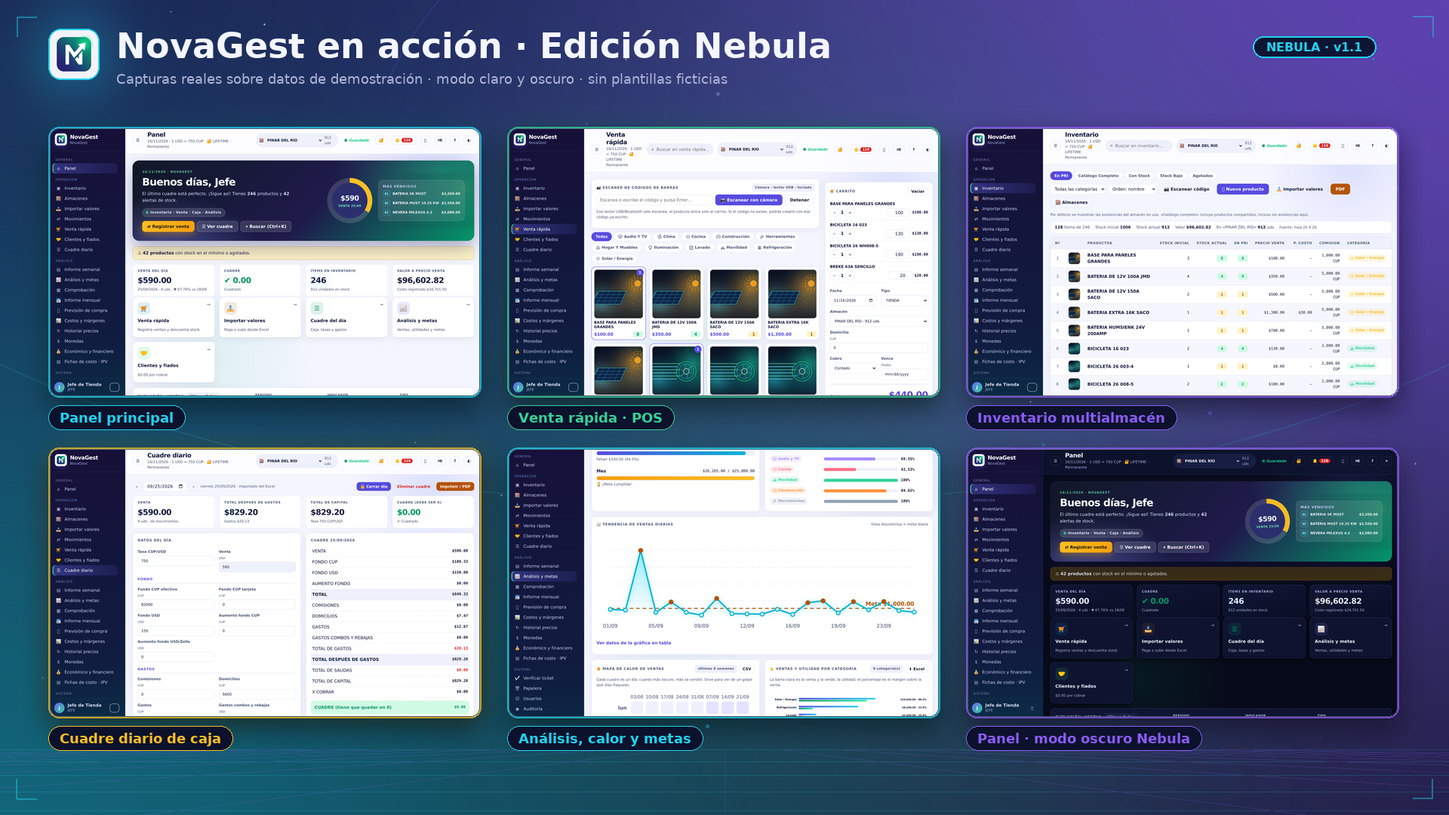
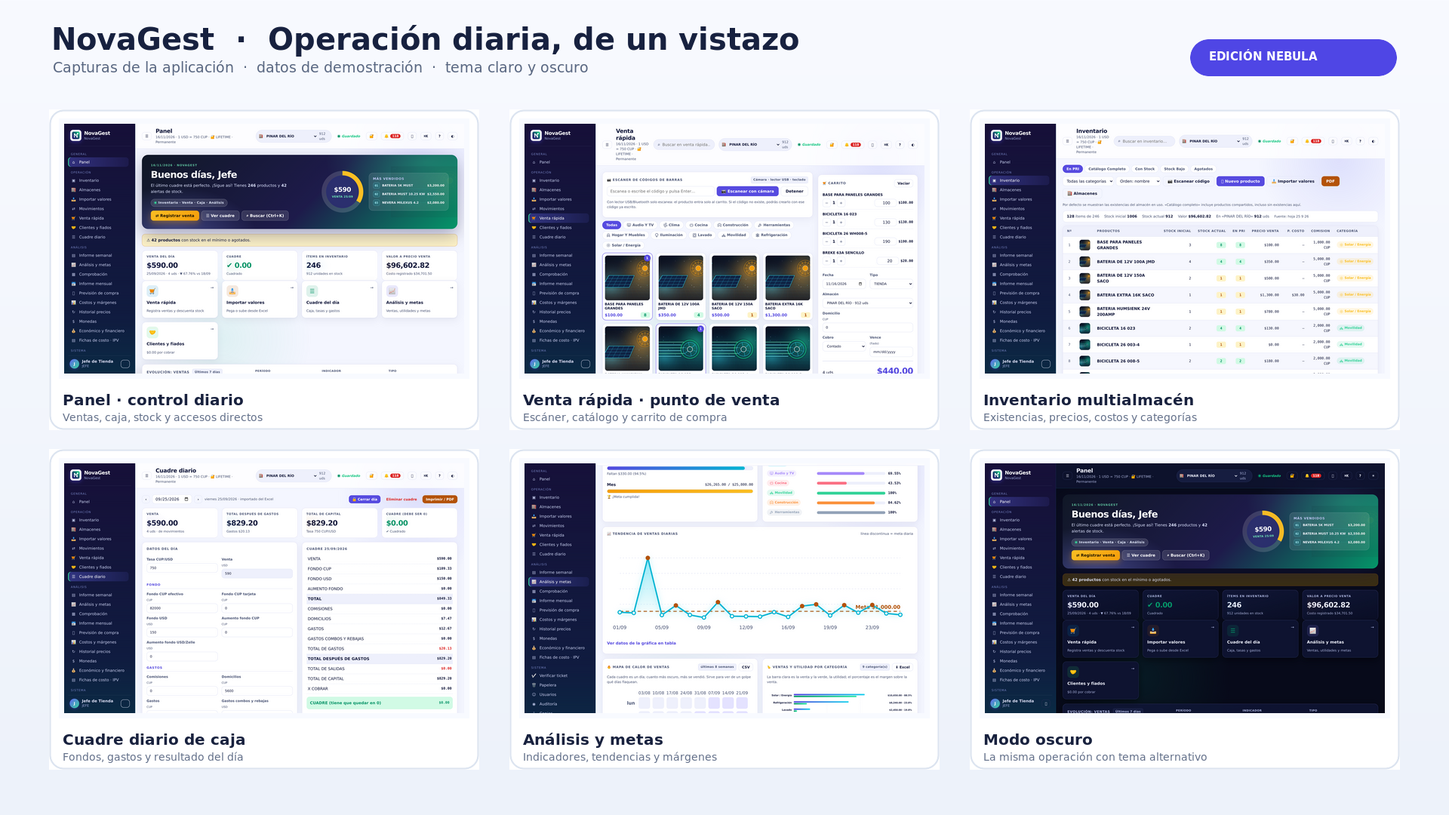
Fix orphaned stock and refresh product screenshots

diff --git a/web/js/app.js b/web/js/app.js
@@ -1335,18 +1335,21 @@ function reorderModalMarkup() {
   const resumen = reorderSummary(lista);
   const etiqueta = { agotado: ["err", "Agotado"], urgente: ["err", "Urgente"], pronto: ["warn", "Pronto"], normal: ["ok", "Planificar"] };
   const almacen = store.activeWarehouse()?.name || "almacén en uso";
-  return `<div class="modal-back" data-act="close-modal"><div class="modal" role="dialog" aria-modal="true" aria-labelledby="reorderModalTitle">
-    <div class="modal-h"><div class="h2" id="reorderModalTitle">🔔 Reposición sugerida</div><button type="button" class="icon-btn" data-act="close-modal" aria-label="Cerrar">✕</button></div>
-    <p class="hint">${esc(resumen.texto)} · ${esc(almacen)} · ventas de los últimos 30 días. La sugerencia busca cubrir ${diasDeCobertura()} días.</p>
-    <div class="table-wrap"><table><thead><tr><th>Producto</th><th class="r">Vendidos</th><th class="r">Por día</th><th class="r">Quedan</th><th>Alcanza</th><th class="r">Sugerido</th><th>Estado</th></tr></thead>
+  const resumenFijo = `${resumen.count} producto(s) para reponer · ${resumen.agotados} agotado(s). Sugerido: ${qty(resumen.unidades)} unidad(es).`;
+  return `<div class="modal-back reorder-back" data-act="close-modal"><section class="modal reorder-modal" role="dialog" aria-modal="true" aria-labelledby="reorderModalTitle">
+    <header class="reorder-head">
+      <div class="modal-h"><div class="h2" id="reorderModalTitle">🔔 Reposición sugerida</div><button type="button" class="icon-btn" data-act="close-modal" aria-label="Cerrar">✕</button></div>
+      <p class="hint reorder-summary">${esc(resumenFijo)} · ${esc(almacen.toLocaleUpperCase("es"))} · ventas de los últimos 30 días. La sugerencia busca cubrir ${diasDeCobertura()} días.</p>
+    </header>
+    <div class="table-wrap reorder-scroll" tabindex="0" aria-label="Lista de productos sugeridos para reponer"><table><thead><tr><th>Producto</th><th class="r">Vendidos</th><th class="r">Por día</th><th class="r">Quedan</th><th>Alcanza</th><th class="r">Sugerido</th><th>Estado</th></tr></thead>
       <tbody>${lista.map((f) => {
         const [tono, texto] = etiqueta[f.level] || ["ok", "Planificar"];
         const alcanza = f.daysLeft === 0 ? "Agotado" : Number.isFinite(f.daysLeft) ? `${f.daysLeft} días` : "Sin ventas recientes";
         return `<tr><td><strong>${esc(f.product.name)}</strong></td><td class="mono r">${qty(f.sold)}</td><td class="mono r">${f.perDay}</td><td class="mono r">${qty(f.product.stockActual)}</td><td>${esc(alcanza)}</td><td class="mono r"><b>${qty(f.suggested)}</b></td><td><span class="tag ${tono}">${texto}</span></td></tr>`;
       }).join("") || `<tr><td colspan="7" class="empty">No hay productos que reponer dentro de la cobertura configurada.</td></tr>`}</tbody>
     </table></div>
-    <div class="row mt14"><button class="btn" data-act="reorder-go">Ir al inventario</button><button class="btn ghost" data-act="close-modal">Cerrar</button></div>
-  </div></div>`;
+    <footer class="row reorder-actions"><button class="btn" data-act="reorder-go">Ir al inventario</button><button class="btn ghost" data-act="close-modal">Cerrar</button></footer>
+  </section></div>`;
 }
 
 const kpi = (k, v, s, tone = "") => `<div class="card kpi ${tone}"><div class="k">${k}</div><div class="v">${v}</div><div class="s">${s}</div></div>`;
@@ -1410,21 +1413,26 @@ function inventoryView() {
           <th class="r">PRECIO VENTA</th><th class="r">P. COSTO</th><th class="r">COMISION</th><th>Categoría</th><th>Observ.</th>${canEdit ? "<th></th>" : ""}
         </tr></thead>
         <tbody>
-          ${list.map((p, i) => `
+          ${list.map((p, i) => {
+            const stockAqui = store.stockIn(p, wh?.id);
+            const stockTotalClass = ui.filter === "TODOS" && p.stockActual <= 0 ? "neutral" : p.stockActual <= 0 ? "out" : p.stockActual <= p.minStock ? "low" : "ok";
+            const stockAquiClass = ui.filter === "TODOS" && stockAqui <= 0 ? "neutral" : stockAqui <= 0 ? "out" : stockAqui <= p.minStock ? "low" : "ok";
+            return `
             <tr>
               <td class="num mono">${i + 1}</td>
               <td>${thumb(p)}</td>
               <td><strong>${hl(p.name)}</strong>${p.barcode ? `<div class="hint mono">▦ ${esc(p.barcode)}</div>` : ""}</td>
               <td class="mono r">${qty(p.stockInicial)}</td>
-              <td class="mono r"><span class="stock ${p.stockActual <= 0 ? "out" : p.stockActual <= p.minStock ? "low" : "ok"}">${qty(p.stockActual)}</span></td>
-              ${multi ? `<td class="mono r"><span class="stock ${store.stockIn(p, wh?.id) <= 0 ? "out" : store.stockIn(p, wh?.id) <= p.minStock ? "low" : "ok"}">${qty(store.stockIn(p, wh?.id))}</span></td>` : ""}
+              <td class="mono r"><span class="stock ${stockTotalClass}" ${p.stockActual <= 0 ? `data-tip="Sin existencias en los almacenes activos"` : ""}>${qty(p.stockActual)}</span></td>
+              ${multi ? `<td class="mono r"><span class="stock ${stockAquiClass}" ${stockAqui <= 0 ? `data-tip="Sin existencias en el almacén en uso"` : ""}>${qty(stockAqui)}</span></td>` : ""}
               <td class="mono r">${usd(p.precioVentaUsd)}${p.precioVenta2Usd ? `<div class="hint">V2 ${usd(p.precioVenta2Usd)}</div>` : ""}</td>
               <td class="mono r">${p.precioCostoUsd ? usd(p.precioCostoUsd) : "—"}</td>
               <td class="mono r">${p.comisionCup ? cup(p.comisionCup) : "—"}</td>
               <td>${catBadge(p.category)}</td>
               <td class="hint">${esc(p.observaciones || "")}</td>
               ${canEdit ? `<td class="actions"><button class="icon-btn" data-edit-product="${p.id}" title="Modificar">✎</button><button class="icon-btn" data-quick-mov="${p.id}" title="Movimiento">⇄</button>${multi && canEdit ? `<button class="icon-btn" data-send-wh="${p.id}" title="Traspasar a otro almacén">🏬</button>` : ""}<button class="icon-btn danger" data-del-product="${p.id}" title="Enviar a papelera">🗑</button></td>` : ""}
-            </tr>`).join("") || `<tr><td colspan="${cols}" class="empty">${ui.filter === "AQUI" && !ui.q ? `Este almacén no tiene productos con existencias. El catálogo compartido sigue disponible.` : `Ningún producto coincide con “${esc(ui.q)}”.`}</td></tr>`}
+            </tr>`;
+          }).join("") || `<tr><td colspan="${cols}" class="empty">${ui.filter === "AQUI" && !ui.q ? `Este almacén no tiene productos con existencias. El catálogo compartido sigue disponible.` : `Ningún producto coincide con “${esc(ui.q)}”.`}</td></tr>`}
         </tbody>
         <tfoot><tr><td></td><td></td><td>TOTAL · ${list.length} ítems</td><td class="mono r">${qty(tot.ini)}</td><td class="mono r">${qty(tot.act)}</td>${multi ? `<td class="mono r">${qty(tot.wh)}</td>` : ""}<td colspan="${canEdit ? 6 : 5}"></td></tr></tfoot>
       </table>

diff --git a/web/css/app.css b/web/css/app.css
@@ -239,6 +239,7 @@ input[readonly] { background: var(--surface-2); }
 .stock.ok { background: var(--ok-soft); color: var(--ok); }
 .stock.low { background: var(--gold-soft); color: var(--gold); }
 .stock.out { background: var(--danger-soft); color: var(--danger); }
+.stock.neutral { background: var(--surface-2); color: var(--muted); border: 1px solid var(--line); }
 .delta.up { color: var(--danger); font-weight: 600; font-size: 12px; }
 .delta.down { color: var(--ok); font-weight: 600; font-size: 12px; }
 
@@ -414,6 +415,24 @@ tr.muted td { opacity: .55; }
 .modal { background: var(--surface); border-radius: 18px; padding: 22px; width: min(620px, 100%); max-height: 92vh; overflow: auto; box-shadow: 0 30px 80px rgba(0,0,0,.3); }
 .modal.small { width: min(420px, 100%); }
 .modal-h { display: flex; justify-content: space-between; align-items: center; }
+/* Reposición sugerida: cabecera y acciones persistentes; solo la tabla se desplaza. */
+.reorder-back { padding: 12px; }
+.reorder-modal { display: flex; flex-direction: column; width: min(1100px, 100%); max-height: calc(100vh - 24px); max-height: calc(100dvh - 24px); padding: 0; overflow: hidden; }
+.reorder-head { flex: 0 0 auto; padding: 18px 22px 10px; border-bottom: 1px solid var(--line); background: var(--surface); }
+.reorder-summary { margin: 8px 0 0; line-height: 1.5; }
+.reorder-scroll { flex: 1 1 auto; min-height: 0; overflow: auto; overscroll-behavior: contain; -webkit-overflow-scrolling: touch; }
+.reorder-scroll table { width: max-content; min-width: 100%; border-collapse: separate; border-spacing: 0; }
+.reorder-scroll thead { position: sticky; top: 0; z-index: 2; background: var(--surface-2); }
+.reorder-scroll thead th { background: var(--surface-2); box-shadow: 0 1px 0 var(--line); white-space: nowrap; }
+.reorder-actions { flex: 0 0 auto; justify-content: flex-end; margin: 0; padding: 12px 22px; border-top: 1px solid var(--line); background: var(--surface); }
+@media (max-width: 620px) {
+  .reorder-back { padding: 8px; }
+  .reorder-modal { width: 100%; max-height: calc(100vh - 16px); max-height: calc(100dvh - 16px); border-radius: 14px; }
+  .reorder-head { padding: 14px 14px 9px; }
+  .reorder-head .h2 { font-size: 18px; }
+  .reorder-summary { font-size: 12px; }
+  .reorder-actions { padding: 10px 14px; }
+}
 .h2 { font-family: var(--serif); font-size: 21px; font-weight: 600; }
 .img-pick { display: flex; gap: 14px; align-items: center; margin: 10px 0; }
 .prod-list { width: 100%; margin-top: 6px; }

diff --git a/tools/build_readme_visuals.py b/tools/build_readme_visuals.py
@@ -1,0 +1,42 @@
+#!/usr/bin/env python3
+"""Compone el hero del README y la galería usando capturas existentes.
+
+Requiere ImageMagick (`convert`, `composite`). No inventa pantallas: escala las
+capturas de docs/assets/capturas y les da una presentación tipográfica coherente.
+"""
+from pathlib import Path
+import atexit, shutil, subprocess, tempfile
+ROOT=Path(__file__).resolve().parents[1]; ASSETS=ROOT/'docs/assets'; CAP=ASSETS/'capturas'; TMP=Path(tempfile.mkdtemp(prefix='ng-readme-'))
+atexit.register(shutil.rmtree, TMP, ignore_errors=True)
+C='convert'; COMP='composite'; FONT='/usr/share/fonts/truetype/dejavu/DejaVuSans.ttf'; BOLD='/usr/share/fonts/truetype/dejavu/DejaVuSans-Bold.ttf'
+def run(*a): subprocess.run(a,check=True)
+def shot(src,out,size): run(C,str(src),'-filter','Lanczos','-resize',size+'^','-gravity','center','-extent',size,'-bordercolor','#f8faff','-border','7',str(out))
+def shadow(src,out): run(C,str(src),'(', '+clone','-background','#020617','-shadow','60x18+0+18',')','+swap','-background','none','-layers','merge','+repage',str(out))
+# Hero panel stack from authentic product screenshots.
+panel=TMP/'panel.png'; sale=TMP/'sale.png'; shot(CAP/'panel.png',panel,'950x594'); shot(CAP/'venta-rapida.png',sale,'620x388')
+panel_sh=TMP/'panel-shadow.png'; sale_sh=TMP/'sale-shadow.png'; shadow(panel,panel_sh); shadow(sale,sale_sh)
+hero=TMP/'hero.png'
+run(C,'-size','1600x900','gradient:#101a3b-#0a2438','-fill','#112c4a','-draw','circle 1510,110 1510,600','-fill','#10233c','-draw','circle 36,860 36,500','-stroke','#28436855','-strokewidth','1','-draw','line 0,755 1600,755','-stroke','#18355255','-draw','line 0,788 1600,788',
+ '-gravity','northwest','-font',BOLD,'-fill','#ffffff','-pointsize','54','-annotate','+160+77','NovaGest',
+ '-font',BOLD,'-fill','#4dd7cf','-pointsize','17','-annotate','+82+185','INVENTARIO  ·  VENTAS  ·  CAJA  ·  FINANZAS',
+ '-font',BOLD,'-fill','#ffffff','-pointsize','48','-annotate','+80+278','Tu negocio,','-annotate','+80+342','bajo control.',
+ '-font',FONT,'-fill','#d8e2f3','-pointsize','23','-annotate','+82+420','Stock, venta y caja','-annotate','+82+456','en una sola operación.',
+ '-font',FONT,'-fill','#aebbd4','-pointsize','18','-annotate','+82+515','Web  ·  Android  ·  servidor propio',
+ '-fill','#142849','-stroke','#325271','-strokewidth','1','-draw','roundrectangle 78,590 488,654 20,20','-stroke','none','-font',BOLD,'-fill','#d9f4f1','-pointsize','16','-annotate','+103+612','Funciona también sin conexión',
+ '-font',FONT,'-fill','#8da2bd','-pointsize','14','-annotate','+82+820','Capturas de la aplicación  ·  datos de demostración',str(hero))
+run(COMP,'-geometry','+540+82',str(panel_sh),str(hero),str(hero)); run(COMP,'-geometry','+890+460',str(sale_sh),str(hero),str(hero))
+logo=TMP/'logo.png'; run(C,str(ROOT/'brand/novagest-icon.png'),'-resize','62x62',str(logo)); run(COMP,'-geometry','+78+70',str(logo),str(hero),str(hero))
+run(C,str(hero),'-depth','8','-strip','-define','png:compression-level=9',str(ASSETS/'novagest-hero.png'))
+# Gallery with consistent screenshot cards and captions.
+canvas=TMP/'gallery.png'
+run(C,'-size','1920x1080','gradient:#f8faff-#edf2fa','-gravity','northwest','-font',BOLD,'-fill','#17213f','-pointsize','40','-annotate','+68+28','NovaGest  ·  Operación diaria, de un vistazo','-font',FONT,'-fill','#596781','-pointsize','19','-annotate','+70+78','Capturas de la aplicación  ·  datos de demostración  ·  tema claro y oscuro','-fill','#4f46e5','-draw','roundrectangle 1577,52 1850,100 24,24','-font',BOLD,'-fill','#ffffff','-pointsize','15','-annotate','+1602+66','EDICIÓN NEBULA',str(canvas))
+items=[('panel.png','Panel · control diario','Ventas, caja, stock y accesos directos'),('venta-rapida.png','Venta rápida · punto de venta','Escáner, catálogo y carrito de compra'),('inventario.png','Inventario multialmacén','Existencias, precios, costos y categorías'),('cuadre-diario.png','Cuadre diario de caja','Fondos, gastos y resultado del día'),('analisis-y-metas.png','Análisis y metas','Indicadores, tendencias y márgenes'),('panel-oscuro.png','Modo oscuro','La misma operación con tema alternativo')]
+positions=[(65,145),(675,145),(1285,145),(65,595),(675,595),(1285,595)]
+for i,((filename,title,subtitle),(x,y)) in enumerate(zip(items,positions)):
+ card=TMP/f'card-{i}.png'; capture=TMP/f'capture-{i}.png'; shot(CAP/filename,capture,'530x331')
+ run(C,'-size','570x425','xc:#ffffff','-stroke','#dce4f0','-strokewidth','2','-fill','#ffffff','-draw','roundrectangle 1,1 568,423 18,18',str(card))
+ run(COMP,'-geometry','+13+12',str(capture),str(card),str(card))
+ texted=TMP/f'card-text-{i}.png'; run(C,str(card),'-gravity','northwest','-font',BOLD,'-fill','#18213e','-pointsize','20','-annotate','+18+373',title,'-font',FONT,'-fill','#63708a','-pointsize','14','-annotate','+18+400',subtitle,str(texted)); card=texted
+ run(COMP,'-geometry',f'+{x}+{y}',str(card),str(canvas),str(canvas))
+run(C,str(canvas),'-depth','8','-strip','-define','png:compression-level=9',str(CAP/'galeria-novagest.png'))
+print('Actualizados docs/assets/novagest-hero.png y docs/assets/capturas/galeria-novagest.png')

diff --git a/server/warehouse_clear.py b/server/warehouse_clear.py
@@ -42,6 +42,7 @@ def prepare(state, warehouse_id, closed, timestamp_ms, user, operation_id):
     if not target:
         raise ClearError(404, "Almacén activo no encontrado.")
     default = next((w for w in active if w.get("isDefault")), active[0] if active else None)
+    active_ids = {w.get("id") for w in active if isinstance(w.get("id"), str)}
     ids = {w.get("id") for w in warehouses if isinstance(w, dict)}
     movements = original.get("movements") or []
     if not isinstance(movements, list) or not isinstance(original.get("products"), list):
@@ -69,12 +70,21 @@ def prepare(state, warehouse_id, closed, timestamp_ms, user, operation_id):
         if not isinstance(p, dict) or not isinstance(p.get("stocks"), dict) or not isinstance(p.get("stocksInicial"), dict):
             raise ClearError(409, "Faltan existencias por almacén. Actualice o revise la base antes de limpiar.")
         stocks, initial = p["stocks"], p["stocksInicial"]
+        # Las existencias de almacenes borrados (o IDs que ya no existen) no son
+        # parte del catálogo activo. Quitarlas al limpiar evita que stockActual,
+        # que es un total derivado, conserve unidades fantasma en Catálogo completo.
+        orphaned = False
+        for mapping in (stocks, initial):
+            for wid in list(mapping):
+                if wid not in active_ids:
+                    del mapping[wid]
+                    orphaned = True
         before, start = _number(stocks.get(warehouse_id)), _number(initial.get(warehouse_id))
-        if before or start:
+        if before or start or orphaned:
             stocks[warehouse_id] = 0
             initial[warehouse_id] = 0
-            p["stockActual"] = _total(stocks.values())
-            p["stockInicial"] = _total(initial.values())
+            p["stockActual"] = _total(stocks.get(wid, 0) for wid in active_ids)
+            p["stockInicial"] = _total(initial.get(wid, 0) for wid in active_ids)
             previous = max(_number(p.get("updatedAt")), _number(p.get("createdAt")))
             p["updatedAt"] = max(timestamp_ms, previous + 1)
             products_changed += 1

diff --git a/tools/test_limpieza_almacen.py b/tools/test_limpieza_almacen.py
@@ -36,6 +36,29 @@ with tempfile.TemporaryDirectory(prefix='ng-clear-') as tmp:
     assert out['movements'][0]['warehouseCleared'] and 'quantity' not in out['movements'][0]
     assert out['movements'][1]['warehouseCleared'] and out['movements'][2:] == before['movements'][2:]
     assert out['warehouseEntries'][1]['invalidatedAt'] == 100
+
+    # Existencias que quedaron asociadas a un almacén ya eliminado son huérfanas:
+    # la limpieza debe quitarlas y recalcular el total visible del catálogo.
+    ghost = copy.deepcopy(state)
+    ghost['warehouses'].append({'id': 'gone', 'name': 'Almacén eliminado', 'deletedAt': 50})
+    ghost['products'][0]['stocks']['gone'] = 99
+    ghost['products'][0]['stocksInicial']['gone'] = 98
+    ghost['products'][0]['stockActual'] += 99
+    ghost['products'][0]['stockInicial'] += 98
+    cleaned, _ = wc.prepare(ghost, 'b', set(), 100, 'admin', 'op-ghost')
+    assert 'gone' not in cleaned['products'][0]['stocks']
+    assert 'gone' not in cleaned['products'][0]['stocksInicial']
+    assert cleaned['products'][0]['stockActual'] == 9
+    assert cleaned['products'][0]['stockInicial'] == 9
+    ghost['products'][0]['stocks']['b'] = 0
+    ghost['products'][0]['stocksInicial']['b'] = 0
+    migrated, migrated_changed = s.ensure_warehouses(copy.deepcopy(ghost))
+    assert migrated_changed
+    assert 'gone' not in migrated['products'][0]['stocks']
+    assert 'gone' not in migrated['products'][0]['stocksInicial']
+    assert migrated['products'][0]['stockActual'] == 9
+    assert migrated['products'][0]['stockInicial'] == 9
+
     primary, _ = wc.prepare(state, 'a', set(), 100, 'admin', 'op')
     assert primary['movements'][2]['warehouseCleared'] and primary['movements'][0] == state['movements'][0]
     for st, days, status in [(state, {'2026-11-02'}, 423), ({**state, 'credits': [{'movementIds': ['m2'], 'deletedAt': 5}]}, set(), 409)]:

diff --git a/server/novagest_server.py b/server/novagest_server.py
@@ -1252,6 +1252,7 @@ def ensure_warehouses(st):
         ws.append(default)
         active.append(default)
         changed = True
+    active_ids = {str(w.get("id")) for w in active if w.get("id") is not None}
     default = next((w for w in active if w.get("isDefault")), active[0])
     wid = default["id"]
     for p in st.get("products") or []:
@@ -1268,6 +1269,22 @@ def ensure_warehouses(st):
             changed = True
         if wid not in p["stocks"] and wid in p["stocksInicial"]:
             p["stocks"][wid] = p.get("stockActual", p["stocksInicial"][wid]) or 0
+            changed = True
+        # Almacenes borrados ya no tienen existencia visible: purga también sus
+        # claves antiguas y recalcula los totales para corregir el catálogo cargado.
+        orphaned = False
+        for mapping in (p["stocks"], p["stocksInicial"]):
+            for stock_id in list(mapping):
+                if str(stock_id) not in active_ids:
+                    del mapping[stock_id]
+                    orphaned = True
+        if orphaned:
+            try:
+                p["stockActual"] = warehouse_clear._total(p["stocks"].values())
+                p["stockInicial"] = warehouse_clear._total(p["stocksInicial"].values())
+            except warehouse_clear.ClearError:
+                # No fallar la carga completa por datos numéricos antiguos inválidos.
+                pass
             changed = True
     for m in st.get("movements") or []:
         if isinstance(m, dict) and not m.get("warehouseId"):

diff --git a/docs/ANALISIS_COMPLEMENTARIO_REPOSICION_RETAIL_2026-11.md b/docs/ANALISIS_COMPLEMENTARIO_REPOSICION_RETAIL_2026-11.md
@@ -1,0 +1,80 @@
+# Análisis complementario: reposición e inventario accionable en retail
+
+**Fecha:** 20 de noviembre de 2026  
+**Documento relacionado:** [Análisis comparativo de NovaGest frente a POS, ERP y contabilidad](ANALISIS_COMPARATIVO_RETAIL_2026-11.md)  
+**Alcance:** complemento enfocado en inventario y reposición. No es un catálogo exhaustivo de funciones de terceros, no compara precios y no afirma que una característica esté disponible en todos los planes, países o regiones. Las referencias externas son las fuentes oficiales enlazadas en el informe relacionado; este documento no representa una verificación independiente en vivo de cada proveedor.
+
+## 1. Revisión del análisis comparativo existente
+
+El informe relacionado está bien delimitado como comparación funcional cualitativa: declara las diferencias de edición/región, evita comparar precios y traduce los referentes a propuestas concretas para NovaGest. Su matriz distingue capacidades actuales de brechas; las recomendaciones de turnos, dimensiones analíticas, caja proyectada, cobranza y canales no se presentan como funciones ya existentes.
+
+En su apartado de inventario, el informe destaca como oportunidad avanzar desde el stock y las alertas hacia la proyección de demanda, compromisos de compra/venta, stock reservado y entrante. Este complemento desarrolla esa línea en un alcance menor y operativo: ayudar a decidir qué reponer, cuánto y con qué grado de confianza, sin convertir una estimación en una orden de compra ni en una garantía de disponibilidad.
+
+## 2. Lectura comparativa acotada
+
+Las fuentes oficiales citadas en el informe principal apuntan a enfoques distintos que pueden inspirar el diseño:
+
+| Referente y fuente del informe principal | Idea relevante para explorar | Límite de interpretación |
+|---|---|---|
+| Odoo, informes de stock y pronóstico | Separar existencias del almacén de movimientos/operaciones que cambiarán el stock; mostrar una proyección explicable. | El informe no implica que NovaGest deba replicar todo el flujo de inventario de un ERP ni todos sus módulos. |
+| Loyverse, alertas de stock bajo | Hacer visibles productos que requieren atención operativa. | Una alerta por mínimo no equivale a una predicción fiable de demanda o cantidad óptima de compra. |
+| Square, alertas y reportes | Combinar avisos con datos que permitan priorizar la acción. | La documentación citada no es prueba de cobertura uniforme por mercado, plan o hardware. |
+| Shopify POS, informes de retail | Considerar tienda, personal y canal como dimensiones útiles de análisis. | No asumir que NovaGest necesita omnicanalidad antes de consolidar reservas, devoluciones y conciliación. |
+
+Fuentes de referencia: [stock forecast de Odoo](https://www.odoo.com/documentation/19.0/applications/inventory_and_mrp/inventory/warehouses_storage/reporting/forecast.html), [alertas de stock bajo de Loyverse](https://help.loyverse.com/help/low-stocks), [alertas de inventario de Square](https://squareup.com/help/us/en/article/8333-create-inventory-alerts) y [reportes de retail de Shopify](https://help.shopify.com/en/manual/reports-and-analytics/shopify-reports/report-types/default-reports/retail-sales-reports). Para el contexto y más referencias, consultar el informe comparativo relacionado.
+
+## 3. Estado funcional de NovaGest y criterio de diseño
+
+La sugerencia de reposición de NovaGest calcula unidades vendidas durante una ventana de 30 días, ritmo diario, stock disponible, días estimados hasta agotarse y cantidad sugerida para una cobertura configurable (14 días por defecto). Los cálculos son por almacén cuando existe uno seleccionado. Es una señal para planificar, no una orden de compra ni una predicción estadística con estacionalidad.
+
+La experiencia del modal debe poner primero la decisión cotidiana y preservar el contexto durante el desplazamiento:
+
+- Cabecera fija con el título **🔔 Reposición sugerida** y cierre visible.
+- Resumen legible: cantidad de productos, agotados y unidades sugeridas; almacén, ventana de ventas y días de cobertura.
+- Tabla con las columnas **Producto, Vendidos, Por día, Quedan, Alcanza, Sugerido y Estado**.
+- Desplazamiento normal dentro de la lista, sin mover la cabecera ni la barra de acciones inferior; en pantallas angostas, desplazamiento horizontal disponible para las columnas.
+- Etiquetar agotados y urgencias con estados claros, pero no depender solo del color.
+- Mantener la acción de ir al inventario separada de la decisión de compra.
+
+## 4. Evolución propuesta
+
+### Nivel 1 — claridad inmediata (bajo esfuerzo)
+
+1. Mostrar el cálculo y sus supuestos junto al resumen: ventas de los últimos 30 días, almacén activo y cobertura buscada.
+2. Conservar cabecera y acciones visibles mientras se desplaza la tabla; asegurar scroll táctil y teclado.
+3. Añadir búsqueda por nombre y filtros de estado si la lista se vuelve larga; conservar el orden de urgencia.
+4. Permitir copiar o exportar una lista de compra con fecha, almacén, cantidades sugeridas y un aviso de que son estimaciones.
+
+### Nivel 2 — sugerencias más accionables (esfuerzo medio)
+
+1. Incorporar compras confirmadas y traspasos entrantes/salientes a una vista de **stock esperado**, identificando cada componente.
+2. Mostrar stock físico, reservado, entrante y disponible en columnas distintas; no sumar pedidos no confirmados como certeza.
+3. Permitir ajustar cantidad y proveedor antes de convertir una sugerencia en borrador de entrada/orden.
+4. Registrar quién aceptó, ajustó o descartó una sugerencia y el motivo, para mejorar la trazabilidad sin alterar el movimiento real.
+
+### Nivel 3 — previsión responsable (esfuerzo medio/alto)
+
+1. Analizar estacionalidad solo cuando haya suficiente historial y señalar explícitamente ventanas cortas o datos incompletos.
+2. Ofrecer escenarios de plazo de proveedor y nivel de servicio, mostrando cómo cambian las cantidades sugeridas.
+3. Medir error de previsión y quiebres de stock por producto/almacén antes de afirmar que el modelo mejora compras.
+4. Mantener alertas de anomalía (promoción, cambio brusco o datos faltantes) separadas de la estimación normal.
+
+## 5. Aceptación recomendada
+
+- La cabecera del diálogo y la barra inferior permanecen visibles al desplazarse por una lista larga; únicamente el área de resultados se desplaza verticalmente.
+- En móvil se puede recorrer la tabla sin que el gesto de scroll cierre el diálogo; las columnas restantes se alcanzan con scroll horizontal.
+- El resumen muestra siempre conteos y unidades, también cuando hay cero productos agotados o cero sugerencias.
+- “Alcanza” distingue agotado, número estimado de días y ausencia de ventas recientes.
+- La cantidad recomendada coincide con los datos mostrados, el almacén activo y la cobertura aplicada.
+- Las sugerencias no modifican stock ni crean compras hasta una acción explícita del usuario.
+- La documentación indica que ventas históricas recientes no garantizan demanda futura; no se ofrecen promesas de disponibilidad ni ahorro.
+
+## Estado de implementación y comprobación
+
+En esta rama, el modal se actualizó para mantener el encabezado y la barra inferior fuera del área desplazable; la tabla tiene scroll vertical y horizontal táctil, y muestra las siete columnas recomendadas. El resumen presenta siempre los conteos, el almacén en mayúsculas, la ventana histórica y los días de cobertura. Se añadieron comprobaciones DOM para esos elementos.
+
+Validación ejecutada: sintaxis JavaScript correcta; `node tools/test_calc.mjs`, 13/13; `git diff --check`, correcto. `node tools/smoke_web.mjs` llegó a 90 comprobaciones correctas y 1 falla en «El servidor recibe las secciones nuevas al guardar» (fichas/IPV), una comprobación ajena al modal de reposición. No se declara esa suite completamente verde.
+
+## Recomendación
+
+Priorizar una lista de reposición rápida de leer, desplazable y explicable; después, añadir stock esperado con compromisos confirmados. La mayor mejora de confianza no es esconder una fórmula detrás de una cifra, sino hacer visible de qué almacén, ventas y horizonte viene la sugerencia y qué datos todavía no contempla.

diff --git a/docs/IMAGENES.md b/docs/IMAGENES.md
@@ -30,9 +30,10 @@ Seis piezas de **1080 × 1350 px** (`01-portada.png` … `06-cierre.png`) y su p
 
 ## Capturas del sitio y del README (`docs/assets/`)
 
-- `docs/assets/capturas/*.png` (**regeneradas el 2026-11-16**): capturas reales 2× supermuestreadas (Lanczos a `1440 × 900` y `1440 × 1060` en `analisis-y-metas.png`) tomadas sobre el servidor real `server/novagest_server.py` con base de datos temporal de demostración, licencia activa y tipografía emoji en color (`NotoColorEmoji`), sin datos personales. El guion reproducible `tools/tomar_capturas.mjs` automatiza la toma en escritorio (claro y oscuro) y vista móvil (`390 × 844`).
-- `docs/assets/capturas/galeria-novagest.png` (`1920 × 1080`, 2026-11-16): collage futurista Nebula de las 6 vistas reales con bordes luminosos por módulo, generado por `tools/build_sitio_assets_nebula.py`.
-- `docs/assets/novagest-hero.png` (`1600 × 900`, 2026-11-16) y `docs/assets/social-preview.png` (`1280 × 640`, 2026-11-16): composiciones futuristas Nebula generadas por `tools/build_sitio_assets_nebula.py` combinando rejilla holográfica en perspectiva, arcos orbitales, el icono `brand/novagest-icon.png` y las capturas reales de `panel-oscuro.png` y `venta-rapida.png`.
+- `docs/assets/capturas/*.png` (**tomas de origen del 2026-11-16**): capturas reales 2× supermuestreadas (Lanczos a `1440 × 900` y `1440 × 1060` en `analisis-y-metas.png`) tomadas sobre el servidor real `server/novagest_server.py` con base de datos temporal de demostración, licencia activa y tipografía emoji en color (`NotoColorEmoji`), sin datos personales. El guion reproducible `tools/tomar_capturas.mjs` automatiza la toma en escritorio (claro y oscuro) y vista móvil (`390 × 844`). Para obtener tomas de código más reciente, ejecútalo con un servidor local y Chromium/Playwright disponibles.
+- `docs/assets/capturas/galeria-novagest.png` (`1920 × 1080`, composición 2026-11-20): galería editorial clara de seis pantallas reales (Panel, venta, inventario, cuadre, análisis y tema oscuro), con títulos y descripciones legibles.
+- `docs/assets/novagest-hero.png` (`1600 × 900`, composición 2026-11-20): hero de presentación con capturas reales del Panel y Venta rápida, texto limpio y composición adaptada al contenido actual del README. Ambas composiciones se regeneran con `python3 tools/build_readme_visuals.py` (requiere ImageMagick: `convert` y `composite`). Sus imágenes de interfaz de origen son las tomas del 2026-11-16; la nueva composición no simula una captura de una versión posterior.
+- `docs/assets/social-preview.png` (`1280 × 640`) permanece como composición Nebula generada por `tools/build_sitio_assets_nebula.py`; no se modificó en esta actualización.
 - `docs/assets/novagest-movil.png` (`1600 × 860`, 2026-11-16): composición con tres teléfonos enmarcados mostrando las capturas móviles reales del Panel claro, Venta rápida táctil y Modo oscuro Nebula.
 - `docs/assets/playstore/feature-graphic.png` (`1024 × 500`) e `icon-512.png` (`512 × 512`): arte de marca Nebula para ficha de tienda; no son capturas de interfaz.
 

diff --git a/README.md b/README.md
@@ -27,7 +27,7 @@
 </div>
 
 <p align="center">
-  <img src="docs/assets/novagest-hero.png" width="100%" alt="NovaGest: el Panel en el navegador y la Venta rápida en el móvil" />
+  <img src="docs/assets/novagest-hero.png" width="100%" alt="NovaGest: inventario, venta y caja en una misma aplicación, con capturas del Panel Web y Venta rápida" />
 </p>
 
 > [!TIP]
@@ -129,10 +129,10 @@ interna para quien administra las licencias.
 
 ## 📸 Capturas
 
-*Datos de demostración del proyecto: no contienen información de personas reales. NovaGest «Nebula».*
+*Capturas de NovaGest «Nebula» con datos de demostración; no contienen información de personas reales. La cuadrícula incluye vistas Web en tema claro y oscuro. La disposición puede variar según el rol, el almacén y el tamaño de pantalla.*
 
 <p align="center">
-  <img src="docs/assets/capturas/galeria-novagest.png" width="100%" alt="NovaGest «Nebula»: Panel, Venta rápida, Inventario, Cuadre diario, Análisis y metas y Panel en tema oscuro" />
+  <img src="docs/assets/capturas/galeria-novagest.png" width="100%" alt="Galería de NovaGest: Panel, Venta rápida, Inventario multialmacén, Cuadre diario, Análisis y metas, y tema oscuro" />
 </p>
 
 <table>
